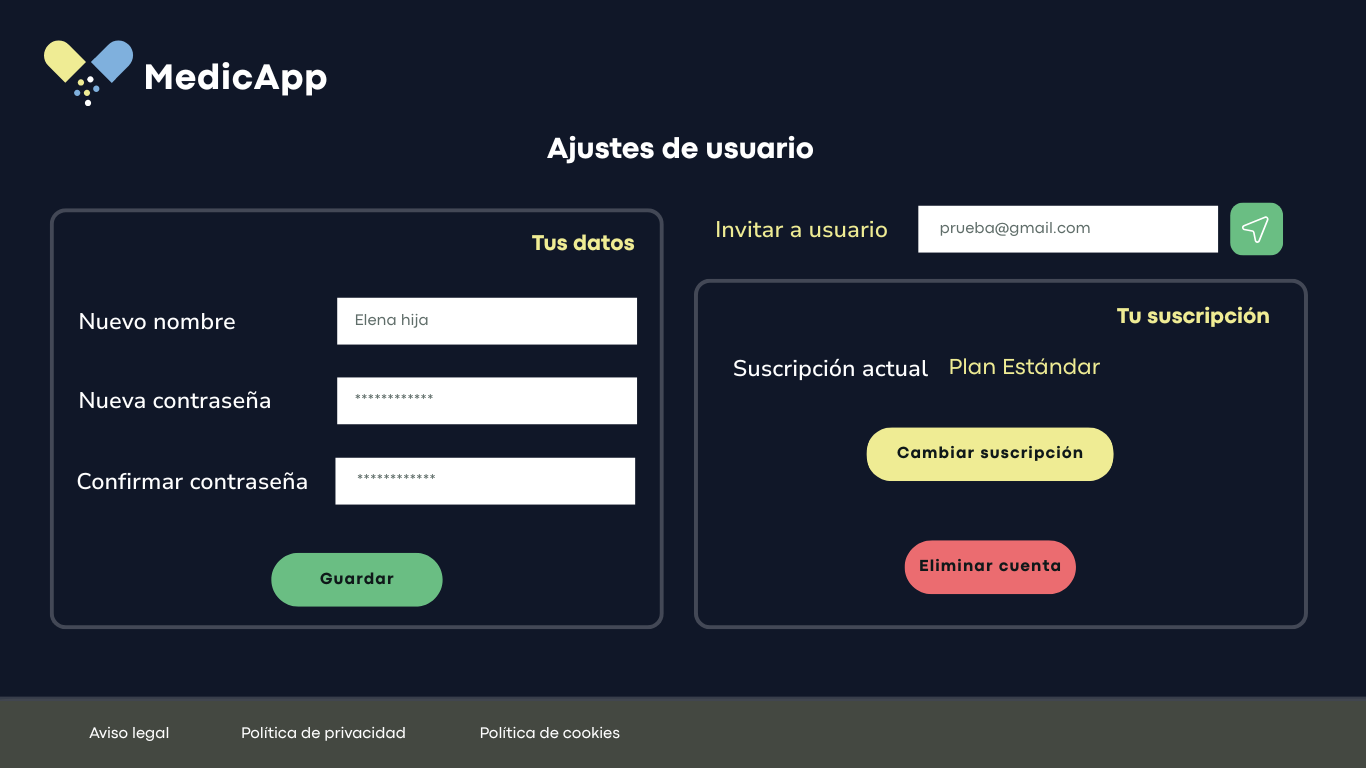
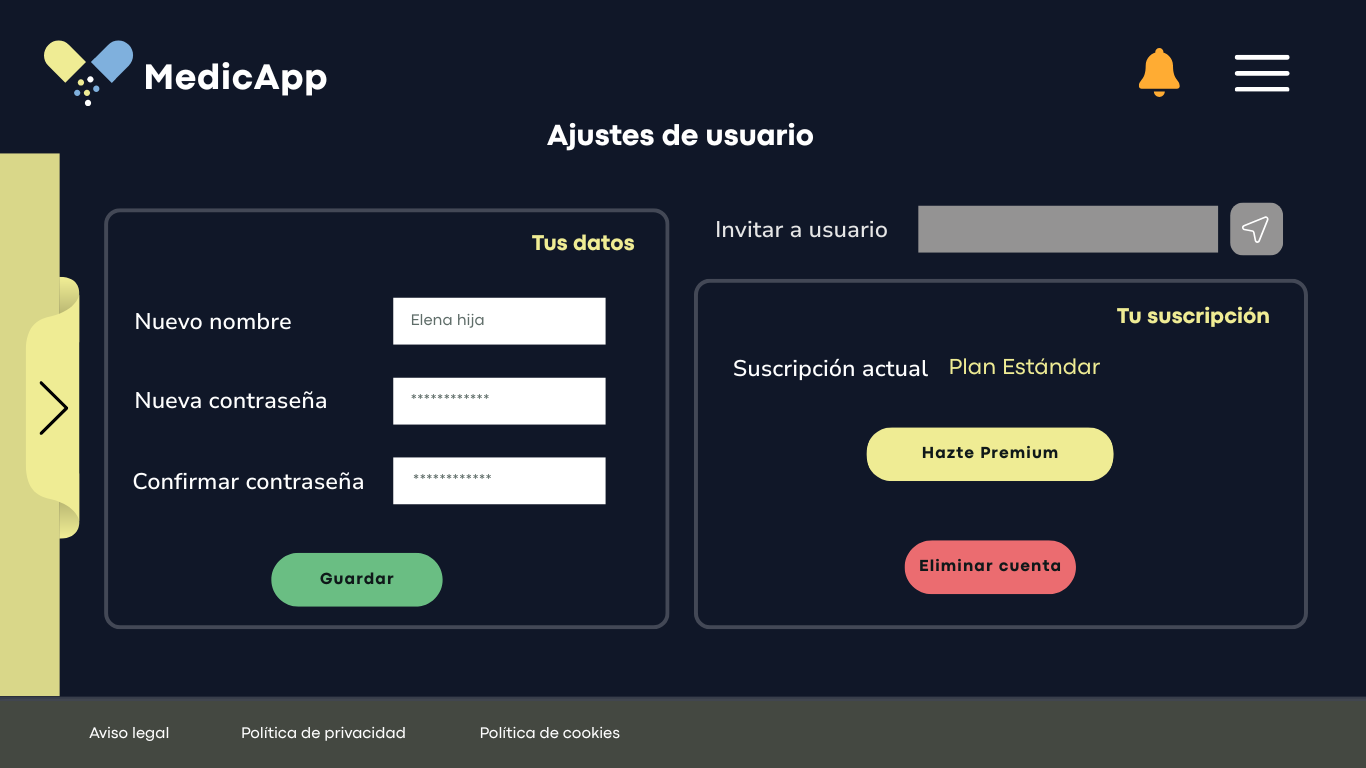
deseño interfaces 2

diff --git a/doc/templates/3_deseno.md b/doc/templates/3_deseno.md
@@ -25,32 +25,82 @@ O documento a elaborar debería incluír os seguintes apartados:
 
 !["Vista login"](/doc/img/vistaLogin.png)
 
-### Interfaz de Rexistro de Usuario
+### Interface de Rexistro de Usuario
 
 !["Vista registro usuario"](/doc/img/vistaRegistro.png)
 
-### Interfaz de Rexistro de Perfil e Tratamento
+### Interface de Rexistro de Perfil e Tratamento
 
 !["Vista rexistro perfil"](/doc/img/vistaPerfil.png)
 
-### Interfaz de Rexistro de Medicación
+### Interface de Rexistro de Medicación
 
 !["Vista rexistro medicación"](/doc/img/vistaMedicacion.png)
 
-### Interfaz de Planes de pago
+### Interface de Planes de pago
 
 !["Vista de plans de pago"](/doc/img/vistaPlanes.png)
 
-### Interfaz principal do Usuario Estándar
+### Interface principal do Usuario Estándar
+
+- **Menú despregable superior dereita:** Opcións de usuario
+- **Icona de campá**: Notificacións
+- **Botón despregable co nome do doente/perfil** para seleccionar outro perfil que poida estar xestionando o usuario autenticado e ver a súa interface.
+- **Menú despregable lateral:** para acceder ás interfaces de xestión de tratamentos, citas médicas, perfís, informes (desactivada no plan Estándar). Tamén cunha opción para pechar sesión.
 
 !["Vista principal Usuario Estándar"](/doc/img/vistaEstandar1.png)
 
 !["Vista principal Usuario Estándar menú lateral"](/doc/img/vistaEstandar2.png)
 
-### Interfaz de rexistro de cita médica
+### Interface principal do Usuario Premium
 
-!["Vista rexistro cita médica"](/doc/img/vistaCita.png)
+!["Vista principal Usuario Premium"](/doc/img/vistaPremium.png)
 
-### Interfaz de axustes de Usuario
+### Interface de axustes de Usuario Estándar
+No menú despregable na esquina superior dereita haberá dúas opcións:
+
+- Axustes (de usuario)
+- Pechar sesión
+
+(O input para invitacións a outros usuarios estará desactivadada no plan Estándar)
 
 !["Vista axustes usuario"](/doc/img/vistaAjustesUsuario.png)
+
+### Interface de axustes de Usuario Premium
+
+!["Vista axustes usuario"](/doc/img/vistaAjustesUsuarioPremium.png)
+
+
+### Interface de tratamentos
+
+
+
+### Interface citas médicas para Usuario Estándar
+
+O botón verde co "+" levaranos á interface de creación de citas.
+
+!["Vista citas médicas Usuario Estándar"](/doc/img/vistaCitasEstandar.png)
+
+### Interface citas médicas para Usuario Premium
+
+Co Usuario Premium poderanse sincronizar as citas médicas con Google Calendar individualmente ou en conxunto.  
+
+!["Vista citas médicas Usuario Premium"](/doc/img/vistaCitasPremium.png)
+
+### Interface de rexistro de cita médica 
+
+!["Vista rexistro cita médica"](/doc/img/vistaRexistroCita.png)
+
+
+### Interface de xestión de perfís para Usuario Premium
+
+!["Vista perfís Usuario Premium"](/doc/img/vistaXestionPerfilPremium.png)
+
+!["Vista perfís Usuario Premium desplegable"](/doc/img/vistaXestionPerfilPremium2.png)
+
+
+
+
+### Interface de informes
+
+
